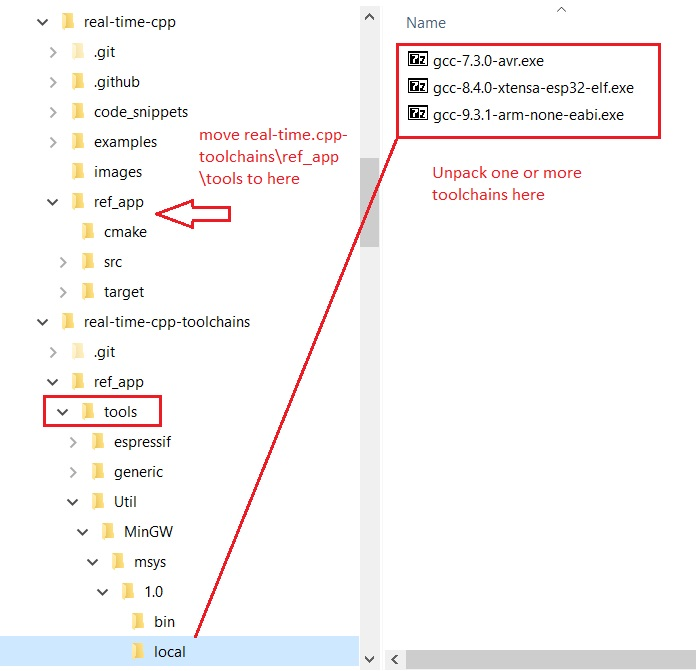
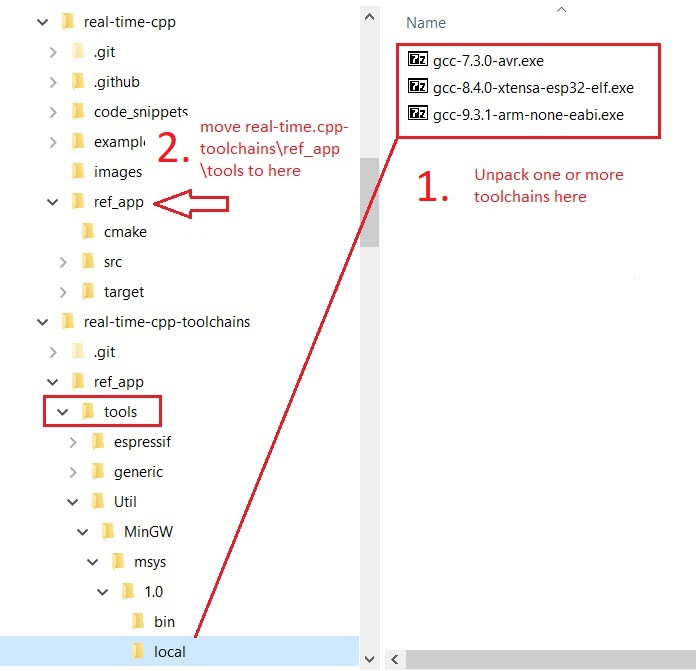
Update docs

Changed region(s): [[0.2112, 0.1788, 0.5129, 0.3577], [0.6034, 0.2385, 0.9052, 0.2981]]

diff --git a/README.md b/README.md
@@ -29,13 +29,15 @@ when opened in Microsoft(R) VisualStudio(R).
 
 # Using GNU/GCC Toolchains with the `ref_app` VS Solution
 
+The [following JPG image](./images/real-time-cpp-toolchains.jpg)
+depicts the topology of the GNU/GCC toolchains in the
+[real-time-cpp-toolchains repository](https://github.com/ckormanyos/real-time-cpp-toolchains)
+and how these topologically harmonize with the `ref_app`
+in the [real-time-cpp repository](https://github.com/ckormanyos/real-time-cpp).
+
 The GNU/GCC toolchains harmonize for use with the [real-time-cpp repository](https://github.com/ckormanyos/real-time-cpp).
   - Clone the [real-time-cpp repository](https://github.com/ckormanyos/real-time-cpp), which is the main companion code for the book.
   - Clone the [real-time-cpp-toolchains repository](https://github.com/ckormanyos/real-time-cpp-toolchains), which is this repository.
-  - Extract one or more of the GNU/GCC toolchains in [ref_app/tools/Util/MinGW/msys/1.0/local directory](./ref_app/tools/Util/MinGW/msys/1.0/local).
-  - The executable files are self-extracting archives that extract in-place where they are intended to be, such as via double-click.
-  - Following toolchain extraction(s), move or copy the [ref_app/tools directory](./ref_app/tools) to the corresponding location in the [real-time-cpp repository](https://github.com/ckormanyos/real-time-cpp) clone.
-  - Open the `ref_app` VisualStudio(R) solution as shown [here](./images/real-time-cpp-target-avr-build.jpg), select the solution configuration `target avr` and rebuild it. The results are placed in the temporary `ref_app/bin` directory.
-
-The [following JPG image](./images/real-time-cpp-toolchains.jpg)
-depicts these details and how the topology is arranged.
+  - Step 1. in JPG image: Extract one or more of the GNU/GCC toolchains in [ref_app/tools/Util/MinGW/msys/1.0/local directory](./ref_app/tools/Util/MinGW/msys/1.0/local). The executable files are self-extracting archives that extract in-place where they are intended to be, such as via double-click.
+  - Step 2. in JPG image: Following toolchain extraction(s), move or copy the [ref_app/tools directory](./ref_app/tools) to the corresponding location in the [real-time-cpp repository](https://github.com/ckormanyos/real-time-cpp) clone.
+  - Open the `ref_app.sln` VisualStudio(R) solution as shown [here](./images/real-time-cpp-target-avr-build.jpg), select the solution configuration `target avr` and rebuild it. The results are placed in the temporary `ref_app/bin` directory.
